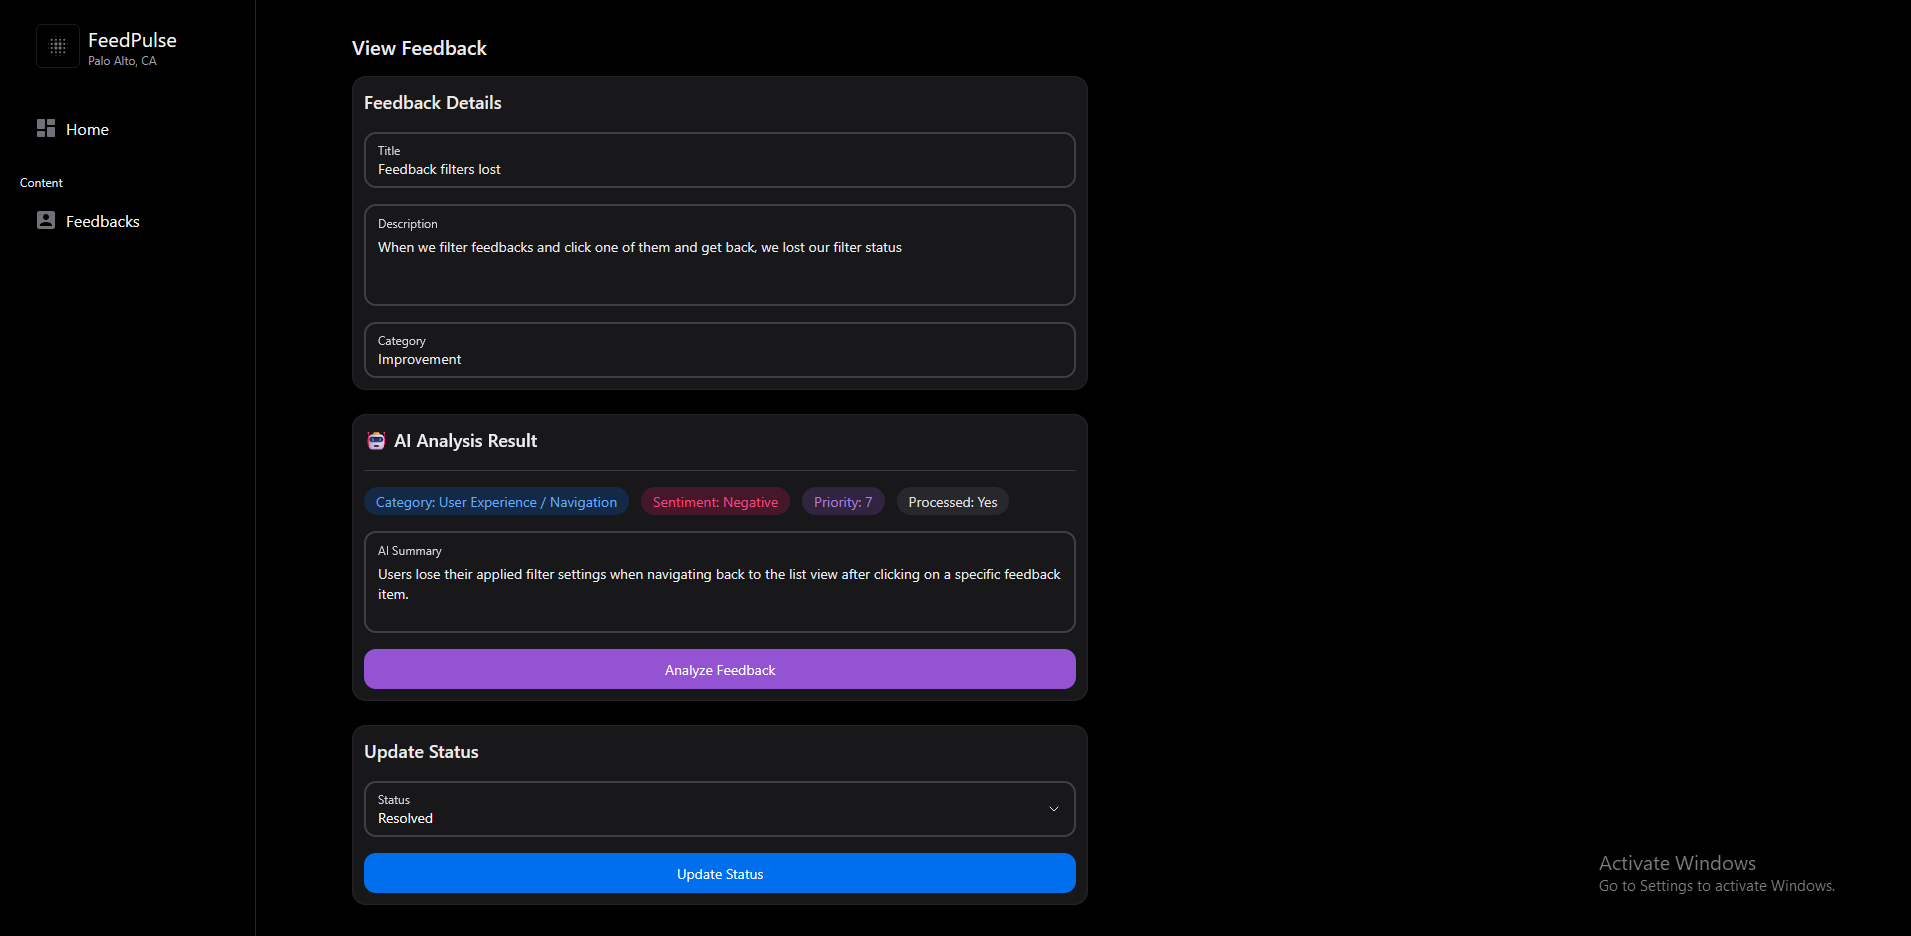
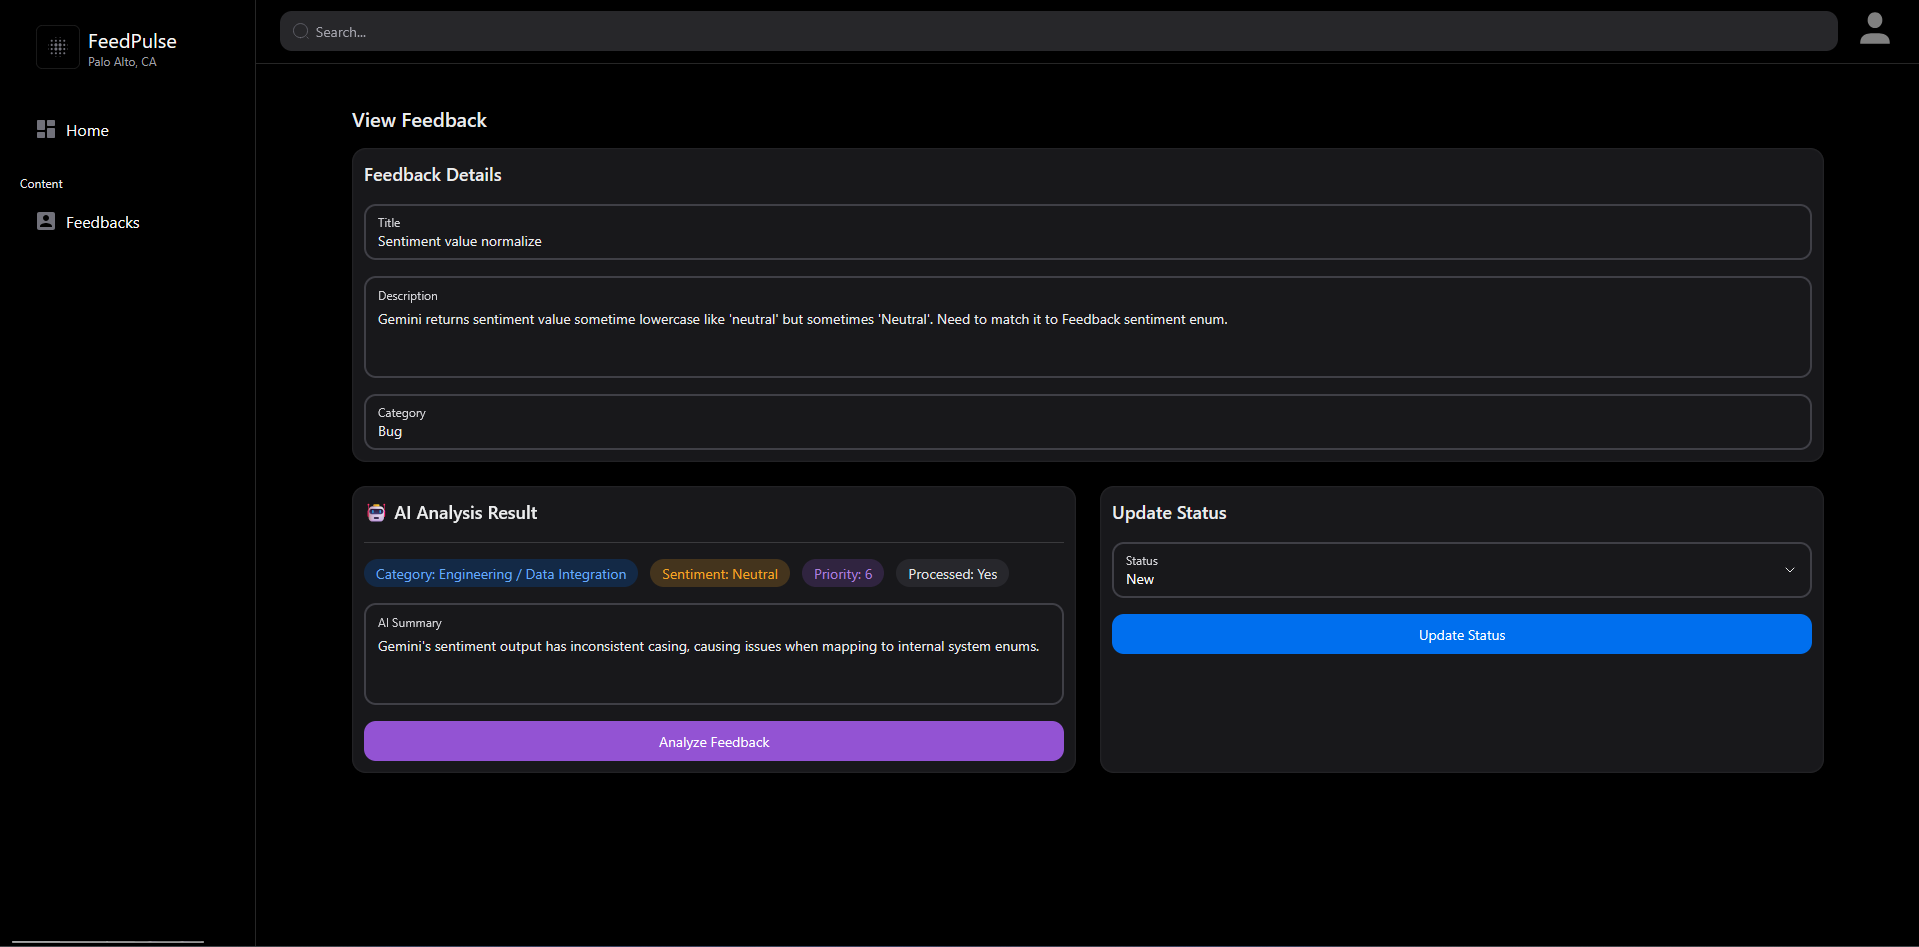
chore: README.md updated

diff --git a/frontend/components/feedbacks/feedback-form.tsx b/frontend/components/feedbacks/feedback-form.tsx
@@ -64,117 +64,109 @@ export const FeedbackAdminForm = ({ initialValues }: Props) => {
   };
 
   return (
-    <Formik initialValues={initialValues} onSubmit={handleFeedbackSubmit}>
-      {({ values, handleSubmit, setFieldValue }) => (
-        <div className="flex flex-col gap-6 w-1/2">
-          {/* Feedback Info */}
-          <Card>
-            <CardBody className="flex flex-col gap-4">
-              <div className="text-lg font-semibold">Feedback Details</div>
+<Formik initialValues={initialValues} onSubmit={handleFeedbackSubmit}>
+  {({ values, handleSubmit, setFieldValue }) => (
+    <div className="flex flex-col gap-6 w-full">
 
-              <Input
-                variant="bordered"
-                label="Title"
-                value={values.title}
-                disabled
-              />
+      {/* Feedback Info - full width */}
+      <Card className="w-full">
+        <CardBody className="flex flex-col gap-4">
+          <div className="text-lg font-semibold">Feedback Details</div>
 
-              <Textarea
-                variant="bordered"
-                label="Description"
-                value={values.description}
-                disabled
-              />
+          <Input variant="bordered" label="Title" value={values.title} disabled />
+          <Textarea variant="bordered" label="Description" value={values.description} disabled />
+          <Input variant="bordered" label="Category" value={values.category} disabled />
+        </CardBody>
+      </Card>
 
-              <Input
-                variant="bordered"
-                label="Category"
-                value={values.category}
-                disabled
-              />
-            </CardBody>
-          </Card>
+      {/* AI + Status side by side */}
+      <div className="grid grid-cols-2 gap-6">
 
-          {/* AI Analysis */}
-          <Card>
-            <CardBody className="flex flex-col gap-4">
-              <div className="text-lg font-semibold">🤖 AI Analysis Result</div>
+        {/* AI Analysis */}
+        <Card>
+          <CardBody className="flex flex-col gap-4">
+            <div className="text-lg font-semibold">🤖 AI Analysis Result</div>
 
-              <Divider />
+            <Divider />
 
-              <div className="flex gap-3 flex-wrap">
-                <Chip color="primary" variant="flat">
-                  Category: {values.ai_category}
-                </Chip>
+            <div className="flex gap-3 flex-wrap">
+              <Chip color="primary" variant="flat">
+                Category: {values.ai_category}
+              </Chip>
 
-                <Chip
-                  color={
-                    values.ai_sentiment === FeedbackSentimentType.POSITIVE
-                      ? "success"
-                      : values.ai_sentiment === FeedbackSentimentType.NEGATIVE
-                        ? "danger"
-                        : "warning"
-                  }
-                  variant="flat"
-                >
-                  Sentiment: {values.ai_sentiment}
-                </Chip>
-
-                <Chip color="secondary" variant="flat">
-                  Priority: {values.ai_priority}
-                </Chip>
-
-                <Chip color="default" variant="flat">
-                  Processed: {values.ai_processed ? "Yes" : "No"}
-                </Chip>
-              </div>
-
-              <Textarea
-                variant="bordered"
-                label="AI Summary"
-                value={values.ai_summary}
-                disabled
-              />
-              <Button
-                color="secondary"
-                onPress={() => handleAnalyzeFeedback(values.id, setFieldValue)}
-                isLoading={isAnalyzing}
+              <Chip
+                color={
+                  values.ai_sentiment === FeedbackSentimentType.POSITIVE
+                    ? "success"
+                    : values.ai_sentiment === FeedbackSentimentType.NEGATIVE
+                    ? "danger"
+                    : "warning"
+                }
+                variant="flat"
               >
-                {isAnalyzing ? "Analyzing" : "Analyze Feedback"}
-              </Button>
-            </CardBody>
-          </Card>
+                Sentiment: {values.ai_sentiment}
+              </Chip>
 
-          {/* Status Update */}
-          <Card>
-            <CardBody className="flex flex-col gap-4">
-              <div className="text-lg font-semibold">Update Status</div>
+              <Chip color="secondary" variant="flat">
+                Priority: {values.ai_priority}
+              </Chip>
 
-              <Select
-                label="Status"
-                variant="bordered"
-                selectedKeys={values.status ? [values.status] : []}
-                onSelectionChange={(keys) => {
-                  const selected = Array.from(keys)[0] as string;
-                  setFieldValue("status", selected);
-                }}
-              >
-                {Object.values(FeedbackStatusType).map((status) => (
-                  <SelectItem key={status}>{status}</SelectItem>
-                ))}
-              </Select>
+              <Chip color="default" variant="flat">
+                Processed: {values.ai_processed ? "Yes" : "No"}
+              </Chip>
+            </div>
 
-              <Button
-                onPress={() => handleSubmit()}
-                color="primary"
-                isLoading={isUpdating}
-              >
-                {isUpdating ? "Updating" : "Update Status"}
-              </Button>
-            </CardBody>
-          </Card>
-        </div>
-      )}
-    </Formik>
+            <Textarea
+              variant="bordered"
+              label="AI Summary"
+              value={values.ai_summary}
+              disabled
+            />
+
+            <Button
+              color="secondary"
+              onPress={() =>
+                handleAnalyzeFeedback(values.id, setFieldValue)
+              }
+              isLoading={isAnalyzing}
+            >
+              {isAnalyzing ? "Analyzing" : "Analyze Feedback"}
+            </Button>
+          </CardBody>
+        </Card>
+
+        {/* Status Update */}
+        <Card>
+          <CardBody className="flex flex-col gap-4">
+            <div className="text-lg font-semibold">Update Status</div>
+
+            <Select
+              label="Status"
+              variant="bordered"
+              selectedKeys={values.status ? [values.status] : []}
+              onSelectionChange={(keys) => {
+                const selected = Array.from(keys)[0] as string;
+                setFieldValue("status", selected);
+              }}
+            >
+              {Object.values(FeedbackStatusType).map((status) => (
+                <SelectItem key={status}>{status}</SelectItem>
+              ))}
+            </Select>
+
+            <Button
+              onPress={() => handleSubmit()}
+              color="primary"
+              isLoading={isUpdating}
+            >
+              {isUpdating ? "Updating" : "Update Status"}
+            </Button>
+          </CardBody>
+        </Card>
+
+      </div>
+    </div>
+  )}
+</Formik>
   );
 };

diff --git a/frontend/components/home/card-balance2.tsx b/frontend/components/home/card-balance2.tsx
@@ -2,7 +2,11 @@ import { Card, CardBody } from "@nextui-org/react";
 import React from "react";
 import { Community } from "../icons/community";
 
-export const CardBalance2 = ({averagePriority}: {averagePriority: number}) => {
+export const CardBalance2 = ({
+  averagePriority,
+}: {
+  averagePriority: number;
+}) => {
   return (
     <Card className="xl:max-w-sm bg-default-50 rounded-xl shadow-md px-3 w-full">
       <CardBody className="py-5">
@@ -10,7 +14,9 @@ export const CardBalance2 = ({averagePriority}: {averagePriority: number}) => {
           <Community />
           <div className="flex flex-col">
             <span className="text-default-900">Average Priority Score</span>
-            <span className="text-default-900 text-xs">{averagePriority.toFixed(2)}</span>
+            <span className="text-default-900 text-xs">
+              {averagePriority?.toFixed(2)}
+            </span>
           </div>
         </div>
         {/* <div className="flex gap-2.5 py-2 items-center">

diff --git a/README.md b/README.md
@@ -2,6 +2,7 @@
 
 This repository contains a full-stack application built with **Express.js** (backend) and **Next.js 14** (frontend). The project is structured with separate `backend` and `frontend` folders.
 
+![Landing Page](https://github.com/KNR1997/FeedPulse/blob/main/frontend/public/screenshots/landing.png)
 
 ---
 
@@ -43,6 +44,12 @@ npm install
 npm run dev
 ```
 
+6. Create a admin user using swagger:
+
+```
+Swagger-docs: http://localhost:8080/api-docs
+```
+
 ### 2. Frontend
 
 1. Navigate to the frontend folder:
@@ -68,10 +75,13 @@ npm install
 npm run dev
 ```
 
-## Screenshots
+### 3. Gemini-3-flash-preview
 
-### Landing Page
-![Landing Page](https://github.com/KNR1997/FeedPulse/blob/main/frontend/public/screenshots/landing.png)
+- Get Gemini-3-flash-preview model key by visting this official site:
+- https://aistudio.google.com
+
+
+## Screenshots
 
 ### Create Feedback
 ![Create Feedback](https://github.com/KNR1997/FeedPulse/blob/main/frontend/public/screenshots/submit_feedback.png)
@@ -89,7 +99,11 @@ npm run dev
 ![Feedback View](https://github.com/KNR1997/FeedPulse/blob/main/frontend/public/screenshots/feedback.png)
 
 ### Light Mode
-![Feedback View](https://github.com/KNR1997/FeedPulse/blob/main/frontend/public/screenshots/light_mode.png)
+![Home View](https://github.com/KNR1997/FeedPulse/blob/main/frontend/public/screenshots/light_mode.png)
+
+![Feedbacks View](https://github.com/KNR1997/FeedPulse/blob/main/frontend/public/screenshots/light_mode_2.png)
+
+![Feedback View](https://github.com/KNR1997/FeedPulse/blob/main/frontend/public/screenshots/light_mode_3.png)
 
 ### Swagger
 ![Feedback View](https://github.com/KNR1997/FeedPulse/blob/main/frontend/public/screenshots/swagger.png)
